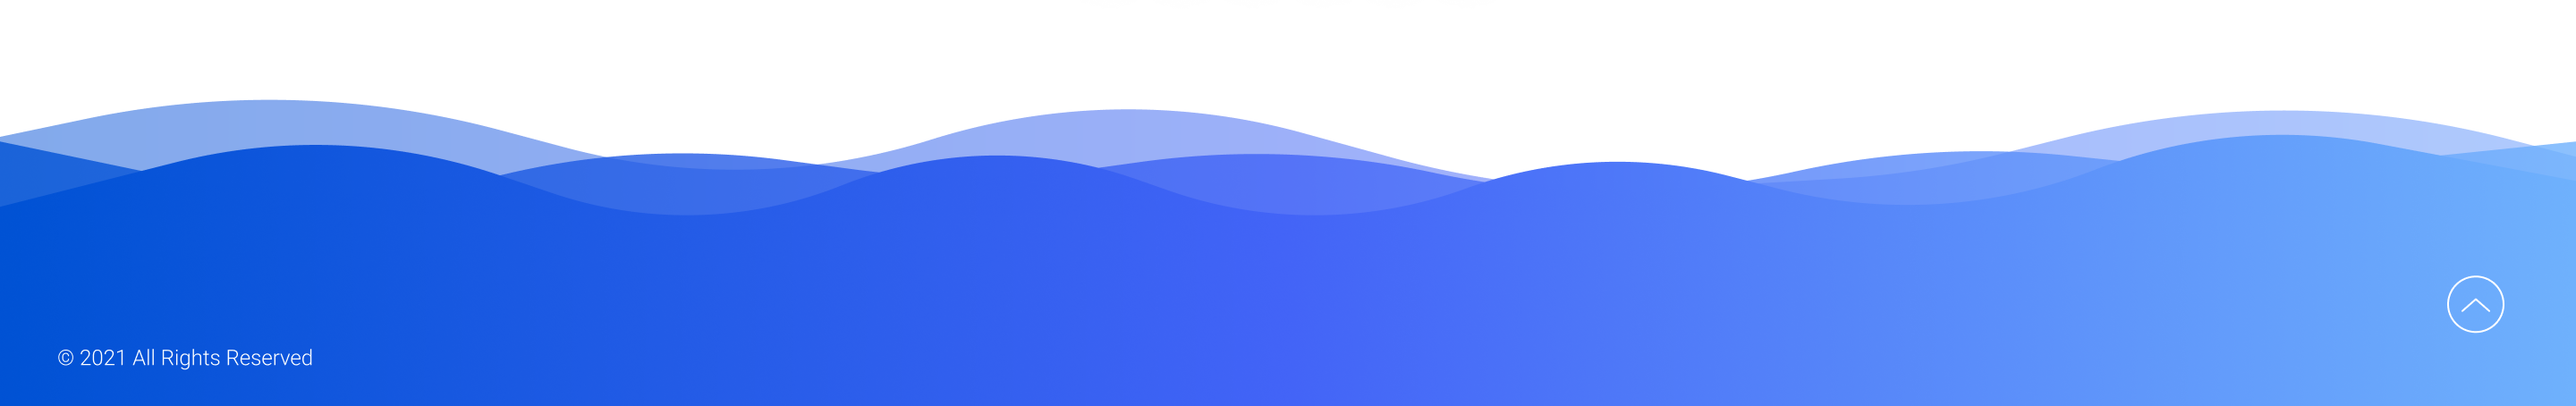
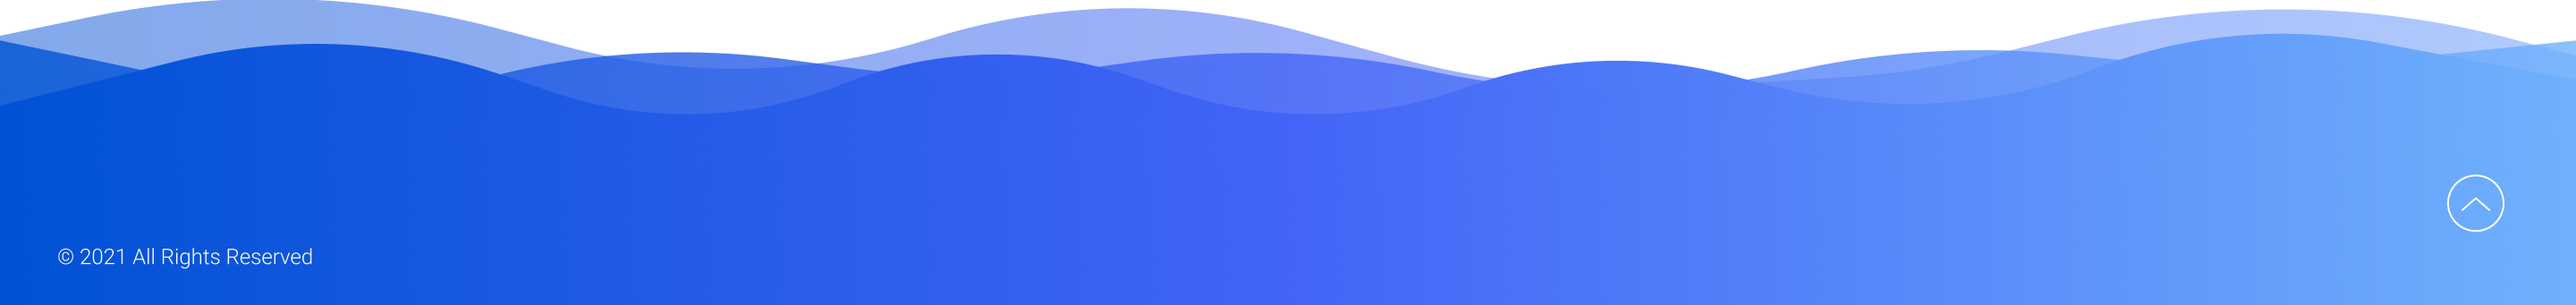
made changes to footer elements

diff --git a/client/src/components/Footer/Footer.jsx b/client/src/components/Footer/Footer.jsx
@@ -18,11 +18,11 @@ const Footer = () => {
 
             <div className='row total'>
                 <div className='row'>
-                    <div className='col'> <button type="button" className='bg-dark text-white'><img src={EmailIcon2} />Please Enter your email</button></div>
-                    <div className='col subscribe'><button type="button" class="btn">SUBSCRIBE</button></div>
+                    <div className='col'> <button type="button" className='bg-dark text-white email'><img src={EmailIcon2} id="email_icon"/>Please Enter your email</button></div>
+                    <div className='col'><button type="button" class="btn subscribe">SUBSCRIBE</button></div>
                 </div>
                 <div className='col'>
-                    <img className="" src={FooterSailorsLogo} />
+                    <img className="sailors_wave" src={FooterSailorsLogo} />
                 </div>
                 <div className='col'>
                     <div className='row'>
@@ -51,7 +51,7 @@ const Footer = () => {
                     </div>
                 </div>
                 <div className='col'>
-                    <div className='container text-center follow'>Follow Us</div>
+                    <div className='follow'>Follow Us</div>
                     <div className='row icon-row'>
                         <div className='col icons'>
                             <img src={SocialIcon1} />
@@ -66,7 +66,7 @@ const Footer = () => {
                             <img src={SocialIcon4} />
                         </div>
                     </div>
-                    <div className='text-center follow'>Download our App</div>
+                    <div className='text-center ms-5 follow'>&nbsp; Download our App</div>
                     <div className='row icon-row'>
                         <div className='col icons'>
                             <img src={SocialIcon5} />
@@ -76,8 +76,8 @@ const Footer = () => {
                         </div>
                     </div>
                 </div>
+            <img className="image-control " src={FooterSlide} />
             </div>
-            <img className="image-control" src={FooterSlide} />
         </>
     )
 }

diff --git a/client/src/components/Footer/Footer.css b/client/src/components/Footer/Footer.css
@@ -1,61 +1,81 @@
 
-.footer-total{
+.total{
     object-fit: cover;
-
 }
+
 .image-control{
     background-color: #cccccc;
     height: 100%;
     width: 100%;
-   }
-
-.total{
-    background-color: bisque;
 }
 
-.subscribe{
-    
-    background-color: #F97D3D;
-    font-family: Poppins;
-    font-size: 16px;
-    font-weight: 400;
-    line-height: 24px;
-    text-align: left;
 
-}
 
 .list{
     font-family: poppins;
     font-size: 14px;
     font-weight: 400;
-    line-height: 24px;
+    line-height: 18px;
     text-align: left;
+    border-bottom: 0;
 }
 
 .heading{
     font-family: Poppins;
-    font-size: 24px;
+    font-size: 16px;
     font-weight: 700;
     line-height: 36px;
     text-align: left;
+    margin-top: 50px;
+    margin-left: 10px;
 }
 
 .follow{
+    text-align: center;
     font-family: Poppins;
-    font-size: 16px;
+    font-size: 13px;
     font-weight: 600;
     line-height: 24px;
-    text-align: center;
+    margin-right: 140px;
+    margin-top:45px;
 }
 
 .icons{
-    width: 35px;
-    height: 35px;
-
+    width: 25px;
+    height: 25px;
+    line-height: 50px;
 }
 
 .icon-row{
     width: 237.37px;
-    height: 35px;
+    height: 30px;
     margin-left: 130px;
 }
+
+.email{
+    width: 250px;
+    border-radius: 5px;
+    margin-left: 490px;
+    font-size: 14px;
+    padding: 7.5px 27px;
+}
+
+.subscribe{
+    background-color: #F97D3D;
+    font-family: poppins;
+    font-size: 14px;
+    font-weight: 400;
+    line-height: 24px;
+    padding: 8px 27px;
+    color: white;
+
+}
+
+.sailors_wave{
+    height: 350px;
+    width: 321px;
+    margin-left: 7%;
+}
+
+
+

diff --git a/client/src/components/WhyChooseSailorsWave/WhyChooseSailorsWave.css b/client/src/components/WhyChooseSailorsWave/WhyChooseSailorsWave.css
@@ -15,7 +15,7 @@ p {
 
 .card-row{
     justify-content: space-around;
-    margin-left: 45px;
+    margin-left: 80px;
     margin-top: 50px;
 }
 
